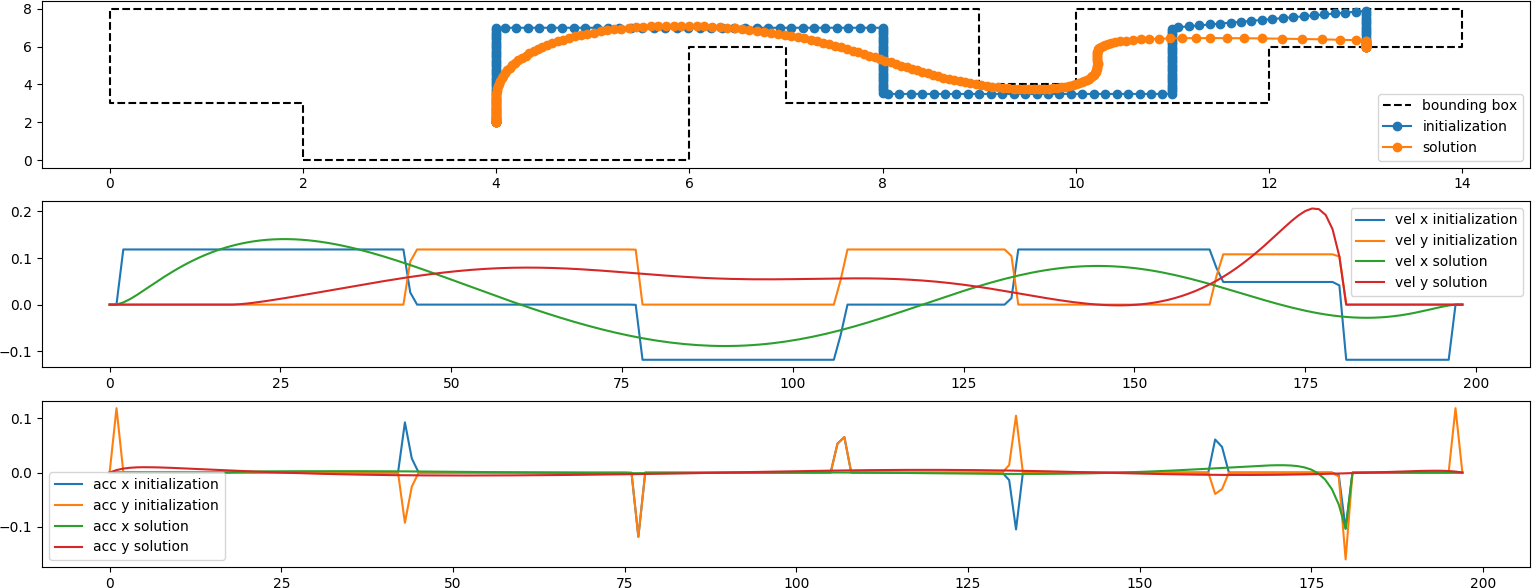
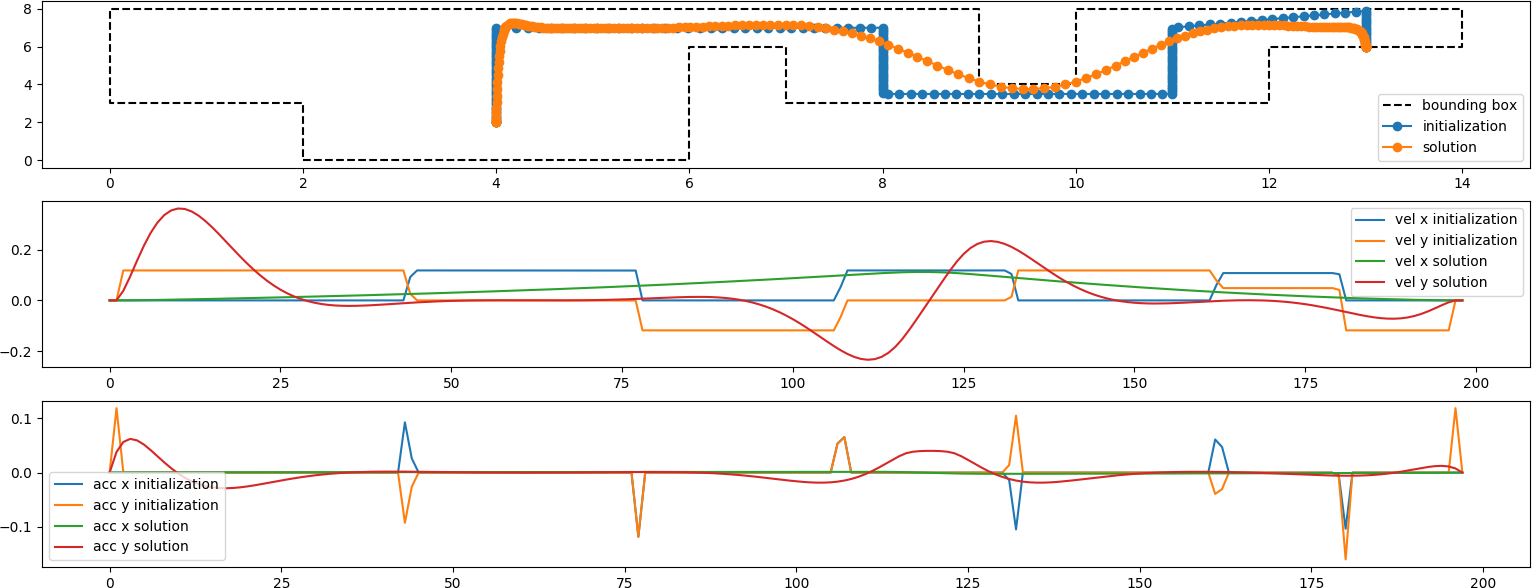
Read all parameters from file

diff --git a/main.cpp b/main.cpp
@@ -31,6 +31,11 @@ std::ostream &operator<<(std::ostream &out, const sample_t &sample)
 
 std::vector<sample_t> resample(const std::vector<sample_t> &points, const size_t &N)
 {
+    // this function takes a polyline (a set of points) and returns a new set of points of length N
+    // which is sampled equally spaced along the original line.
+
+    // for each point, the offset is calculated. This is the accumulation of the distance
+    // between two consecutive points.
     std::vector<double> offsets(points.size());
     offsets[0] = 0;
     for (size_t i = 0; i < points.size() - 1; ++i)
@@ -38,8 +43,8 @@ std::vector<sample_t> resample(const std::vector<sample_t> &points, const size_t
         offsets[i + 1] = offsets[i] + std::hypot(points[i + 1].x - points[i].x, points[i + 1].y - points[i].y);
     }
 
-    std::cout << "offsets" << offsets << std::endl;
-
+    // the first element is 0, the last element is the length of the complete polyline.
+    // this is used to calculate the increment needed for each point.
     const double &length = offsets.back();
     const double increment = length / (N - 1);
 
@@ -47,6 +52,9 @@ std::vector<sample_t> resample(const std::vector<sample_t> &points, const size_t
 
     for (size_t i = 0; i < N; ++i)
     {
+        // we can now search for the first offset which is larger than the desired arc length. The index of
+        // this offset can be used to directly find the points between we need to interpolate to get the
+        // desired point.
         double arclen = i * increment;
         const auto it = std::lower_bound(offsets.cbegin(), offsets.cend(), arclen);
         const size_t index = std::distance(offsets.cbegin(), it);
@@ -60,9 +68,11 @@ std::vector<sample_t> resample(const std::vector<sample_t> &points, const size_t
     return result;
 }
 
-Json::Value samples_to_json(const std::vector<sample_t>& samples) {
+Json::Value samples_to_json(const std::vector<sample_t> &samples)
+{
     Json::Value result;
-    for(const sample_t& sample: samples) {
+    for (const sample_t &sample : samples)
+    {
         Json::Value s;
         s.append(sample.x);
         s.append(sample.y);
@@ -71,13 +81,14 @@ Json::Value samples_to_json(const std::vector<sample_t>& samples) {
     return result;
 }
 
-std::vector<sample_t> json_to_samples(const Json::Value& json_samples) {
+std::vector<sample_t> json_to_samples(const Json::Value &json_samples)
+{
     std::vector<sample_t> result(json_samples.size());
-    for(Json::ArrayIndex i = 0; i < json_samples.size(); ++i) {
+    for (Json::ArrayIndex i = 0; i < json_samples.size(); ++i)
+    {
         result[i] = sample_t{
             json_samples[i][0].asDouble(),
-            json_samples[i][1].asDouble()
-        };
+            json_samples[i][1].asDouble()};
     }
 
     return result;
@@ -85,9 +96,17 @@ std::vector<sample_t> json_to_samples(const Json::Value& json_samples) {
 
 std::vector<sample_t> initialize(const std::vector<sample_t> raw_init, const size_t N_SAMPLES)
 {
+    // We depend on a raw initialization. This function takes such a raw initialization and returns an
+    // initialization tailoered to the problem size such that the first three points are located on the start
+    // coordinate, the last three points are on the destination coordinate (both coordinates are determined by
+    // the raw initialization) and the other points are equally spaced between.
+    // We set the start and destination points to the same value to determine the initial and final dynamics
+    // (no velocity, no acceleration).
     const std::vector<sample_t> resampled = resample(raw_init, N_SAMPLES - 4);
     std::vector<sample_t> initialization(N_SAMPLES);
     std::copy(resampled.cbegin(), resampled.cend(), initialization.begin() + 2);
+
+    // set first and last three points to the same value
     initialization[0] = initialization[1] = initialization[2];
     initialization[N_SAMPLES - 2] = initialization[N_SAMPLES - 1] = initialization[N_SAMPLES - 3];
     return initialization;
@@ -97,22 +116,13 @@ int main()
 {
     Json::Value world;
     std::ifstream("world.json") >> world;
-    
-    polygon_t poly;
-
-    for(const sample_t& point: json_to_samples(world["bounds"])) {
-        boost::geometry::append(poly.outer(), point_t{
-            point.x,
-            point.y
-        });
-    }
 
     std::vector<sample_t> raw_init = json_to_samples(world["rawInit"]);
 
-    const size_t N_SAMPLES = 200;
-    const double w_vel(world["weights"]["vel"].asDouble()), 
-        w_acc(world["weights"]["acc"].asDouble()), 
-        w_jerk(world["weights"]["jerk"].asDouble()), 
+    const size_t N_SAMPLES =world["N"].asUInt64();
+    const double w_vel(world["weights"]["vel"].asDouble()),
+        w_acc(world["weights"]["acc"].asDouble()),
+        w_jerk(world["weights"]["jerk"].asDouble()),
         w_bound(world["weights"]["bound"].asDouble());
 
     std::vector<sample_t> pts = initialize(raw_init, N_SAMPLES);
@@ -125,6 +135,16 @@ int main()
     ceres::Problem ceres_problem;
     ceres::CostFunction *cost_function;
 
+    // only used to parameterize the PolygonCostFunctor
+    polygon_t poly;
+
+    for (const sample_t &point : json_to_samples(world["bounds"]))
+    {
+        boost::geometry::append(poly.outer(), point_t{
+                                                  point.x,
+                                                  point.y});
+    }
+
     for (int i = 0; i < N_SAMPLES; ++i)
     {
         double *p0 = (double *)&(pts[i]);
@@ -133,6 +153,11 @@ int main()
             new ceres::NumericDiffCostFunction<PolygonCostFunctor<point_t, polygon_t>, ceres::FORWARD, 1, 2>(
                 new PolygonCostFunctor<point_t, polygon_t>(poly));
         ceres_problem.AddResidualBlock(cost_function, new ceres::ScaledLoss(NULL, w_bound, ceres::TAKE_OWNERSHIP), p0);
+
+        cost_function =
+            new ceres::AutoDiffCostFunction<ElevationCostFunctor, 1, 2>(
+                new ElevationCostFunctor(world["elevationDes"].asDouble()));
+        ceres_problem.AddResidualBlock(cost_function, new ceres::ScaledLoss(NULL, w_vel, ceres::TAKE_OWNERSHIP), p0);
     }
 
     for (int i = 0; i < N_SAMPLES - 2; ++i)
@@ -165,14 +190,6 @@ int main()
     for (const auto &block : constant_blocks)
     {
         ceres_problem.SetParameterBlockConstant((double *)&(pts[block]));
-    }
-
-    ceres::SubsetParameterization *pin_x = new ceres::SubsetParameterization(2, {{0}});
-
-    for (size_t i = 0; i < 20; ++i)
-    {
-        ceres_problem.SetParameterization((double *)&(pts[i]), pin_x);
-        ceres_problem.SetParameterization((double *)&(pts[N_SAMPLES - i - 1]), pin_x);
     }
 
     ceres::Solver::Options options;

diff --git a/cost_functors.hpp b/cost_functors.hpp
@@ -1,14 +1,16 @@
 #include <boost/geometry.hpp>
 
-
-template<typename POINT_T, typename POLYGON_T>
-struct PolygonCostFunctor {
+// puts cost on leaving a polygon
+template <typename POINT_T, typename POLYGON_T>
+struct PolygonCostFunctor
+{
     const POLYGON_T poly;
-    PolygonCostFunctor(const POLYGON_T& poly): poly{poly} {
-        
+    PolygonCostFunctor(const POLYGON_T &poly) : poly{poly}
+    {
     }
 
-    bool operator()(const double* p0, double* residual) const {
+    bool operator()(const double *p0, double *residual) const
+    {
         const POINT_T pt(p0[0], p0[1]);
         bool is_inside = boost::geometry::within(pt, this->poly);
         residual[0] = is_inside ? 0 : boost::geometry::distance(pt, this->poly);
@@ -16,38 +18,32 @@ struct PolygonCostFunctor {
     }
 };
 
-struct VelCostFunctor {
+// puts cost on deviation of desired flight height
+struct ElevationCostFunctor
+{
+    const double elevation_des;
 
-    const double v_des;
-    const double dt;
-
-    VelCostFunctor(const double& v_des, const double& dt) : v_des{v_des}, dt{dt}
-    { }
-
-    /// Template signature <2, 2, 2>
-    template<typename T>
-    bool operator()(const T* const p0, const T* const p1, T* residual) const
+    ElevationCostFunctor(const double &elevation_des) : elevation_des{elevation_des}
     {
-        T vx = (p1[0] - p0[0]) / T(dt);
-        T vy = (p1[1] - p0[1]) / T(dt);
+    }
 
-        residual[0] = (v_des - vx);
-        residual[1] =  vy;
-
+    template <typename T>
+    bool operator()(const T *const p0, T *residual) const
+    {
+        residual[0] = (T(elevation_des) - p0[1]);
         return true;
     }
 };
 
-
-struct AccCostFunctor {
-
-
-
+// puts cost on acceleration
+struct AccCostFunctor
+{
     AccCostFunctor() {}
 
-    template<typename T>
-    bool operator()(const T* const p0, const T* const p1, const T* const p2, T* residual) const {
-        for( int i = 0; i < 2; ++i )
+    template <typename T>
+    bool operator()(const T *const p0, const T *const p1, const T *const p2, T *residual) const
+    {
+        for (int i = 0; i < 2; ++i)
         {
             residual[i] = p0[i] - T(2) * p1[i] + p2[i];
         }
@@ -55,19 +51,19 @@ struct AccCostFunctor {
     }
 };
 
-/// This cost functor takes four parameter blocks and returns the two residuals jerk_x and jerk_y.
-struct JerkCostFunctor {
-
+// puts cost on jerk
+struct JerkCostFunctor
+{
     JerkCostFunctor() {}
 
-    /// Template signature <2, 2, 2, 2, 2>
-    template<typename T>
-    bool operator()(const T* const p0, const T* const p1,
-                    const T* const p2, const T* const p3,
-                    T* residual) const {
-        for( int i = 0; i < 2; ++i )
+    template <typename T>
+    bool operator()(const T *const p0, const T *const p1,
+                    const T *const p2, const T *const p3,
+                    T *residual) const
+    {
+        for (int i = 0; i < 2; ++i)
         {
-            residual[i] = (-p0[i] + T(3) * p1[i] - T(3) * p2[i] + p3[i]) ;
+            residual[i] = (-p0[i] + T(3) * p1[i] - T(3) * p2[i] + p3[i]);
         }
         return true;
     }

diff --git a/plot.py b/plot.py
@@ -3,8 +3,8 @@ import json
 from matplotlib import pyplot as plt
 
 fig = plt.figure()
-ax_conv = fig.add_subplot(4,1,1)
-ax_vel = fig.add_subplot(4,1,2)
+ax_conv = fig.add_subplot(4, 1, 1)
+ax_vel = fig.add_subplot(4, 1, 2)
 ax_acc = fig.add_subplot(4, 1, 3)
 
 
@@ -20,7 +20,7 @@ with open('result.json') as fh:
         solution = result[thing]
         x, y = np.array(solution).reshape(-1, 2).T
         ax_conv.plot(x, y, 'o-', label=thing)
-       
+
         # now "solution" points to the last one (the actual solution)
         vel = np.diff(np.array(solution).reshape(-1, 2), axis=0)
         acc = np.diff(vel, axis=0)
@@ -28,11 +28,11 @@ with open('result.json') as fh:
         ax_acc.plot(acc_x, label="acc x %s" % thing)
         ax_acc.plot(acc_y, label="acc y %s" % thing)
         vx, vy = vel.T
-        ax_vel.plot(vy, label="vel x %s" % thing)
-        ax_vel.plot(vx, label="vel y %s" % thing)
+        ax_vel.plot(vx, label="vel x %s" % thing)
+        ax_vel.plot(vy, label="vel y %s" % thing)
 
 for ax in (ax_acc, ax_conv, ax_vel):
     ax.legend()
-    
-    
+
+
 plt.show()
